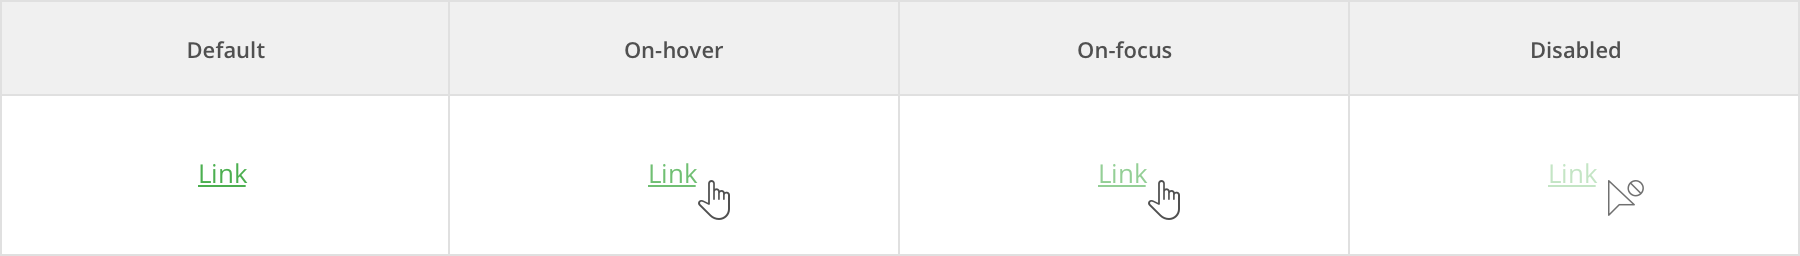
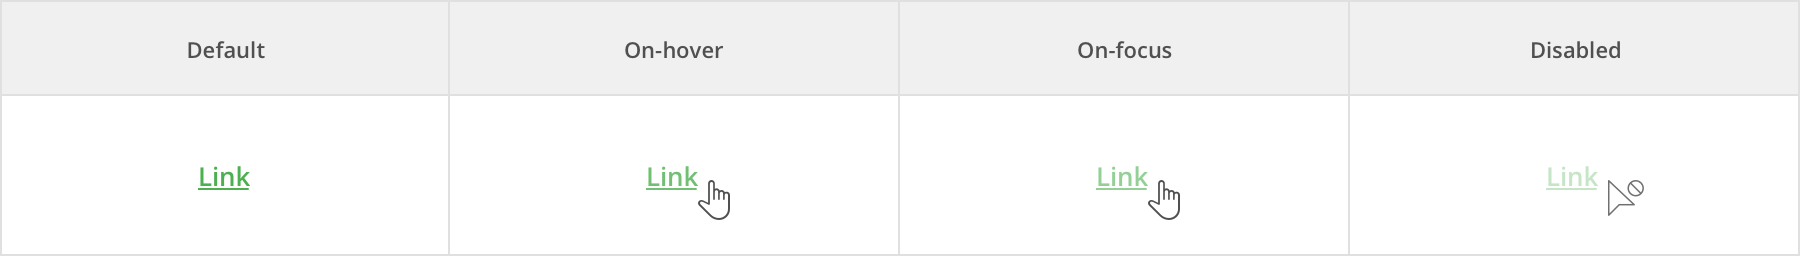
Updates atoms/buttons.md
Auto commit by GitBook Editor

diff --git a/atoms/buttons.md b/atoms/buttons.md
@@ -221,7 +221,7 @@ In other words, Links are text-only buttons with underline text decoration and t
 ```
 /* Default */
 font-family: Open Sans;
-font-weight: Regular;
+font-weight: Semibold;
 font-size: 13px;
 text-decoration: underline;
 color: $G300;
